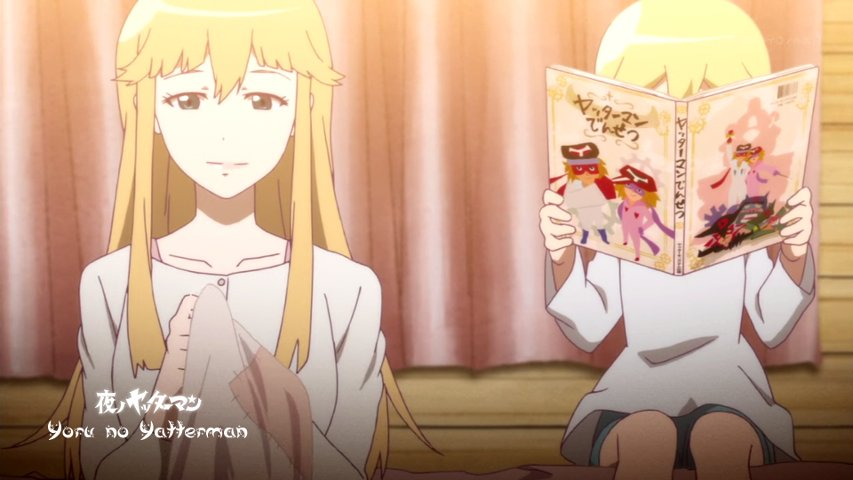
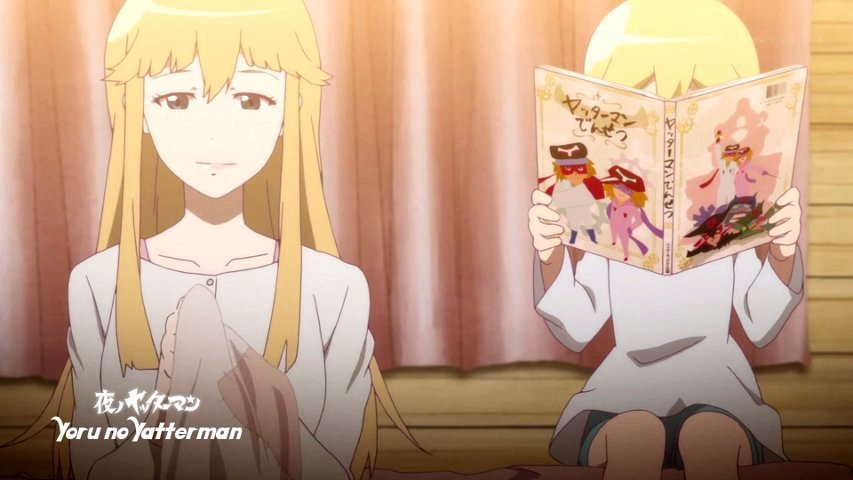
News

diff --git a/2015-01-17.html b/2015-01-17.html
@@ -1,0 +1,98 @@
+<!DOCTYPE html>
+<html lang="fr-FR">
+	<head>
+		<title>Des news pour Future GPX Cyber Formula! | Nobluesky Fansub</title>
+		<meta charset="utf-8" />
+		<link rel="Shortcut Icon" type="image/x-icon" href="favicon.ico" />
+		<link href="fonts/fonts.css" rel="stylesheet" type="text/css" />
+		<link href="style.css" rel="stylesheet" type="text/css" media="screen" />
+		<link rel="stylesheet" href="menu.css" type="text/css" />
+		<script src="jquery.js" type="text/javascript"></script>
+		<script src="background-script.js" type="text/javascript"></script>
+	</head>
+<body>
+<div class="banner">
+	<a title="Nobluesky Fansub" href="index.html"> <img class="banner" alt="Nobluesky Fansub" title="Nobluesky Fansub" src="images/banner.png"/> </a>
+</div>
+<!-- end banner -->
+<div id="menu-wrapper">
+	<div id="menu">
+		<script type="text/javascript">
+		$( '#menu' ).load( 'menu.html' );
+		</script>
+		<noscript>Activez javascript pour voir le menu!</noscript>
+	</div>
+</div>
+<!-- end #menu -->
+<div id="page-wrapper">
+<div id="sidebar-wrapper">
+	<div id="sidebar">
+		<script type="text/javascript">
+		$( '#sidebar' ).load( 'sidebar.html' );
+		</script>
+	</div>
+	<!-- end #sidebar -->
+</div>
+	<div id="article">
+		<div id="content">
+			<div class="post">
+				<h1 class="title">Des nouvelles de Future GPX Cyber Formula!</h1>
+				<div style="clear: both;">&nbsp;</div>
+				<p class="meta"><span class="date">15 Janvier 2014</span><span class="posted">Posté par <a href="about.html#nobluesky">Nobluesky</a></span></p>
+				<div style="clear: both;">&nbsp;</div>
+				<div class="entry">
+					<img class="post-images" src="images/2015/news4.jpg" alt="" />
+					<p>Des nouvelles fraîches pour cette série qui sera maintenant proposée en Bluray 720p, et remasterisé s'il vous plaît!</p>
+					<p>Alors pas d'épisode cette semaine à cause de l'adaptation au nouveau format, et de la révision des sous-titres bien sûr. Les épisode déjà terminés seront ajoutés en 720p, et je poursuivrai ensuite la série avec cette superbe qualité!</p>
+					<p>Pour les anciennes sorties en SD toute moche à côté, je vais les laisser au cas où vous voudriez comparer, mais y'a pas photo ^_^</p>
+					<p>Allez, je vous montre un peu à quoi ça ressemble en début d'article pour vous faire patienter (encore une fois), mais c'est pour la bonne cause ;)</p>
+					<h3>Commentaires</h3>
+					<div id="disqus_thread"></div>
+					<script type="text/javascript">
+						/* * * CONFIGURATION VARIABLES: EDIT BEFORE PASTING INTO YOUR WEBPAGE * * */
+						var disqus_shortname = 'noblueskyfansub'; // required: replace example with your forum shortname
+
+						/* * * DON'T EDIT BELOW THIS LINE * * */
+						(function() {
+							var dsq = document.createElement('script'); dsq.type = 'text/javascript'; dsq.async = true;
+							dsq.src = '//' + disqus_shortname + '.disqus.com/embed.js';
+							(document.getElementsByTagName('head')[0] || document.getElementsByTagName('body')[0]).appendChild(dsq);
+						})();
+					</script>
+					<noscript>Activez javascript pour voir les commentaires.</noscript>
+					<a href="http://disqus.com" class="dsq-brlink">commentaires propulsés par <span class="logo-disqus">Disqus</span></a>
+				</div>
+			</div>
+			<div style="clear: both;">&nbsp;</div>
+		</div>
+		<!-- end #content -->
+		<div style="clear: both;">&nbsp;</div>
+	</div>
+</div>
+<!-- end #page -->
+<script type="text/javascript">
+$(window).scroll(function() {
+    if ($(this).scrollTop() < 1000) {
+        $("#footer").hide();
+    }
+    else {
+        $("#footer").show();
+    }
+});
+$(window).scroll(function() {
+  if ($(this).scrollTop() < 1000) {
+    $("footer").slideUp();
+      }
+  else {
+    $("footer").slideDown();
+      }
+});		
+</script>
+<div id="footer">
+	<script type="text/javascript">
+	$( '#footer' ).load( 'footer.html' );
+	</script>
+</div>
+<!-- end #footer -->
+</body>
+</html>

diff --git a/index.html b/index.html
@@ -64,6 +64,20 @@
 				</div>
 			</div>
 			<div class="post">
+				<h1 class="title"><a href="2015-01-17.html">Des nouvelles de Future GPX Cyber Formula!</a></h1>
+				<div style="clear: both;">&nbsp;</div>
+				<p class="meta"><span class="date">17 Janvier 2015</span><span class="posted">Posté par <a href="about.html#nobluesky">Nobluesky</a></span></p>
+				<p><a href="http://nobluesub.com/2015-01-17.html#disqus_thread">Commentaires</a></p>
+				<div style="clear: both;">&nbsp;</div>
+				<div class="entry">
+					<img class="post-images" src="images/2015/news4.jpg" alt="" />
+					<p>Des nouvelles fraîches pour cette série qui sera maintenant proposée en Bluray 720p, et remasterisé s'il vous plaît!</p>
+					<p>Alors pas d'épisode cette semaine à cause de l'adaptation au nouveau format, et de la révision des sous-titres bien sûr. Les épisode déjà terminés seront ajoutés en 720p, et je poursuivrai ensuite la série avec cette superbe qualité!</p>
+					<p>Pour les anciennes sorties...</p>
+					<p class="links"><a href="2015-01-17.html" class="button">Lire la suite</a></p>
+				</div>
+			</div>
+			<div class="post">
 				<h1 class="title"><a href="2015-01-12.html">Yoru no Yatterman 01 vostfr</a></h1>
 				<p class="meta"><span class="date">12 Janvier 2015</span><span class="posted">Posté par <a href="about.html#nobluesky">Nobluesky</a></span></p>
 				<p><a href="http://nobluesub.com/2015-01-12.html#disqus_thread">Commentaires</a></p>
@@ -116,21 +130,6 @@
 					<p>Eh oui, je suis encore là! Après presque trois mois sans une sortie, voici enfin cet épisode 7, histoire de vous souhaiter un Joyeux Noël!</p>
 					<p>Je suis désolé de n'avoir pu vous offrir un épisode par semaine, mais c'est ainsi, la vie ne permet pas toujours de faire ce que l'on a prévu. Alors j'ai pris une décision, j'espère que vous ne <del>me massacrerez pas à coups d'onigris</del> m'en voudrez pas : les épisodes sortiront...</p>
 					<p class="links"><a href="2014-12-25.html" class="button">Lire la suite</a></p>
-				</div>
-			</div>
-			<div class="post">
-				<h1 class="title"><a href="2014-10-07.html">Future GPX Cyber Formula 06 vostfr</a></h1>
-				<p class="meta"><span class="date">7 Octobre 2014</span><span class="posted">Posté par <a href="about.html#nobluesky">Nobluesky</a></span></p>
-				<p><a href="http://nobluesub.com/2014-10-07.html#disqus_thread">Commentaires</a></p>
-				<div style="clear: both;">&nbsp;</div>
-				<div class="entry">
-					<img class="post-images" src="images/2014/news7.jpg" alt="" />
-					<p>Bonjour à tous,</p>
-					<p>Cette semaine il fait plutôt frisquet, et ce beau mois de Septembre nous laissait espérer un été indien un peu plus long.</p>
-					<p>Pas grave, les couche-tards auront leur dose d'animé pour ce soir, bien au chaud sous la couette!</p>
-					<p>J'ai un peu traîné avant l'upload, mais voici enfin votre dose de Cyber Formule!</p>
-					<p>Hayato s'entraîne pour le Grand Prix du Japon. Mais il n'est pas seul sur le circuit d'Hokkaido, et il y fera des rencontres innatendues. Et se préparer pour un Grand Prix, ça donne des insomnies parfois...</p>
-					<p class="links"><a href="2014-10-07.html" class="button">Lire la suite</a></p>
 				</div>
 			</div>
 			<div style="clear: both;">&nbsp;</div>

diff --git a/page2.html b/page2.html
@@ -52,6 +52,21 @@
 	<div id="feed">
 		<div id="content">
 			<div class="post">
+				<h1 class="title"><a href="2014-10-07.html">Future GPX Cyber Formula 06 vostfr</a></h1>
+				<p class="meta"><span class="date">7 Octobre 2014</span><span class="posted">Posté par <a href="about.html#nobluesky">Nobluesky</a></span></p>
+				<p><a href="http://nobluesub.com/2014-10-07.html#disqus_thread">Commentaires</a></p>
+				<div style="clear: both;">&nbsp;</div>
+				<div class="entry">
+					<img class="post-images" src="images/2014/news7.jpg" alt="" />
+					<p>Bonjour à tous,</p>
+					<p>Cette semaine il fait plutôt frisquet, et ce beau mois de Septembre nous laissait espérer un été indien un peu plus long.</p>
+					<p>Pas grave, les couche-tards auront leur dose d'animé pour ce soir, bien au chaud sous la couette!</p>
+					<p>J'ai un peu traîné avant l'upload, mais voici enfin votre dose de Cyber Formule!</p>
+					<p>Hayato s'entraîne pour le Grand Prix du Japon. Mais il n'est pas seul sur le circuit d'Hokkaido, et il y fera des rencontres innatendues. Et se préparer pour un Grand Prix, ça donne des insomnies parfois...</p>
+					<p class="links"><a href="2014-10-07.html" class="button">Lire la suite</a></p>
+				</div>
+			</div>
+			<div class="post">
 				<h1 class="title"><a href="2014-09-21.html">Future GPX Cyber Formula 05 vostfr</a></h1>
 				<p class="meta"><span class="date">21 Septembre 2014</span><span class="posted">Posté par <a href="about.html#nobluesky">Nobluesky</a></span></p>
 				<p><a href="http://nobluesub.com/2014-09-21.html#disqus_thread">Commentaires</a></p>
@@ -105,19 +120,6 @@
 					<p>Hayato a bien réussi à amener l'Asurada à bon port, mais le pilote officiel ne peut la conduire à cause du système d'identification. L'informaticien du groupe va tenter de résoudre le problème.</p>
 					<p>L'équipe est en danger et va devoir discuter sérieusement! Qui va piloter l'Asurada...</p>
 					<p class="links"><a href="2014-08-13.html" class="button">Lire la suite</a></p>
-				</div>
-			</div>
-			<div class="post">
-				<h1 class="title"><a href="2014-08-09.html">Future GPX Cyber Formula 01 vostfr</a></h1>
-				<p class="meta"><span class="date">9 Août 2014</span><span class="posted">Posté par <a href="about.html#nobluesky">Nobluesky</a></span></p>
-				<p><a href="http://nobluesub.com/2014-08-09.html#disqus_thread">Commentaires</a></p>
-				<div style="clear: both;">&nbsp;</div>
-				<div class="entry">
-					<img class="post-images" src="images/2014/news2.jpg" alt="" />
-					<p>Mais quel animé choisir en ce moment? Telle est la question. Ou plutôt était car je vous présente dès maintenant le premier épisode de mon nouveau projet, Future GPX Cyber Formula.</p>
-					<p>Il s'agit d'une vieille série datant de 1991, avec son charme de l'époque et ses personnages au dessin daté et à la candeur parfois trop grande et avec des vrais méchants pas gentils, mais c'est pour le plus grand plaisir des amateurs de vintage que je vous propose sa sortie en vostfr.</p>
-					<p>Nous voilà en 2015^^ durant les préliminaires d'une course de Cyber Formule...</p>
-					<p class="links"><a href="2014-08-09.html" class="button">Lire la suite</a></p>
 				</div>
 			</div>
 			<div style="clear: both;">&nbsp;</div>

diff --git a/archives.html b/archives.html
@@ -55,6 +55,7 @@
 					<div>
 					<!-- here comes spoiler content -->
 					<div style="clear: both;">&nbsp;</div>
+					<p><a href="2014-08-09.html" target="_blank" >Future GPX Cyber Formula 01 vostfr</a></p>
 					<p><a href="2014-07-26.html" target="_blank" >Ouverture du site</a></p>
 					<!-- end spoiler content -->
 					</div>
